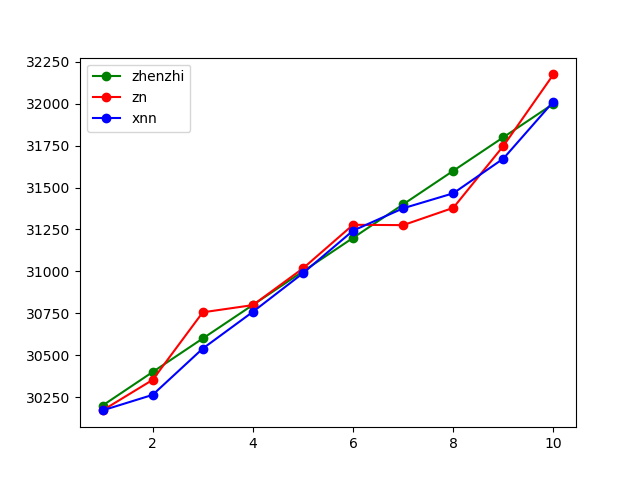
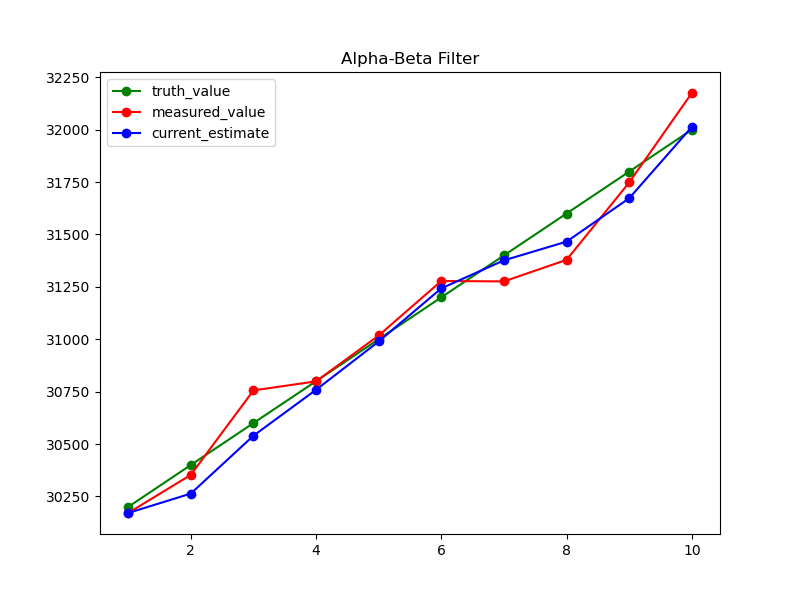
work5_renew
the third revision. have used ai to help standarlize and simplify the code

diff --git a/α−β滤波器/work5.cpp b/α−β滤波器/work5.cpp
@@ -1,62 +1,50 @@
-#include <iostream>
-using namespace std;
 #include <vector>
+#include <array>
 #include "matplotlibcpp.h"
 namespace plt = matplotlibcpp;
 
-//weizhi x^(n,n)=x^(n,n-1)+a(zn-x^(n,n-1))
-//sudo x^`(n,n)=x^`(n,n-1)+b(zn-x^(n,n-1))/deta-t
+//位置 x^(n,n)=x^(n,n-1)+alpha(zn-x^(n,n-1))
+//速度 v^(n,n)=v^(n,n-1)+beta(zn-x^(n,n-1))/dt
+
+//zn-测量值 xnn-估计的当前位置 vnn-估计的当前速度 xn1n-预测的下一时刻位置 vn1n-预测的下一时刻速度
 
 int main(){
-    double a = 0.50908;
-    double b = 0.28501;
-    int t = 5;
-    int zn[10] = {30171,30353,30756,30799,31018,31278,31276,31379,31748,32175};
-    int zhenzhi[10] = {30200,30400,30600,30800,31000,31200,31400,31600,31800,32000};
+    constexpr double alpha = 0.50908;
+    constexpr double beta = 0.28501;
+    constexpr double dt = 5.0;
+    constexpr int n = 10;
 
-    double xnn[10], vnn[10];
-    double xn1n[10], vn1n[10];
+    std::array<double, n> zn = {30171, 30353, 30756, 30799, 31018, 31278, 31276, 31379, 31748, 32175};
+    std::array<double, n> truth = {30200, 30400, 30600, 30800, 31000, 31200, 31400, 31600, 31800, 32000};
+    std::array<double, n> xnn{}, vnn{}, xn1n{}, vn1n{};
 
-    for(int i = 0; i < 10; i++){
-        if(i == 0){
-            xnn[i] = zn[i];
-            vnn[i] = 0;
-        }else{
-            xnn[i] = xn1n[i-1] + a * (zn[i] - xn1n[i-1]);
-            vnn[i] = vn1n[i-1] + b * (zn[i] - xn1n[i-1]) / t;
-        }
-        xn1n[i] = xnn[i] + t * vnn[i];
+    xnn[0] = zn[0];
+    vnn[0] = 0;
+    xn1n[0] = xnn[0] + dt * vnn[0];
+    vn1n[0] = vnn[0];
+
+    for(int i = 1; i < n; i++){
+        double residual = zn[i] - xn1n[i-1];
+        xnn[i] = xn1n[i-1] + alpha * residual;
+        vnn[i] = vn1n[i-1] + beta * residual / dt;
+        xn1n[i] = xnn[i] + dt * vnn[i];
         vn1n[i] = vnn[i];
     }
-    for(int j = 0; j < 10; j++){
-        cout << xnn[j] << " " ;
-    }
-    cout << endl;
-    for(int j = 0; j < 10; j++){
-        cout << vnn[j] << " " ;
-    }
-    cout << endl;
-    for(int j = 0; j < 10; j++){
-        cout << xn1n[j] << " ";
-    }
-    cout << endl;
-    for(int j = 0; j < 10; j++){
-        cout << vn1n[j] << " " ;
-    }
-    cout << endl;
- 
-    
-    std::vector<double> idx = {1,2,3,4,5,6,7,8,9,10};
-    std::vector<double> zhenzhi_vec(zhenzhi, zhenzhi+10);
-    std::vector<double> zn_vec(zn, zn+10);
-    std::vector<double> xnn_vec(xnn, xnn+10);
+
+    auto to_vec = [](const auto& arr){
+        return std::vector<double>(arr.begin(), arr.end());
+    };
+
+    std::vector<double> idx = {1, 2, 3, 4, 5, 6, 7, 8, 9, 10};
 
     plt::backend("Agg");
-    plt::plot(idx, zhenzhi_vec, {{"label", "zhenzhi"}, {"color", "g"}, {"marker", "o"}});
-    plt::plot(idx, zn_vec, {{"label", "zn"}, {"color", "r"}, {"marker", "o"}});
-    plt::plot(idx, xnn_vec, {{"label", "xnn"}, {"color", "b"}, {"marker", "o"}});
+    plt::figure_size(800, 600);
+    plt::plot(idx, to_vec(truth), {{"label", "truth_value"}, {"color", "g"}, {"marker", "o"}});
+    plt::plot(idx, to_vec(zn), {{"label", "measured_value"}, {"color", "r"}, {"marker", "o"}});
+    plt::plot(idx, to_vec(xnn), {{"label", "current_estimate"}, {"color", "b"}, {"marker", "o"}});
+    plt::title("Alpha-Beta Filter");
     plt::legend();
     plt::save("filter_result.png");
 
     return 0;
-}  
+}
